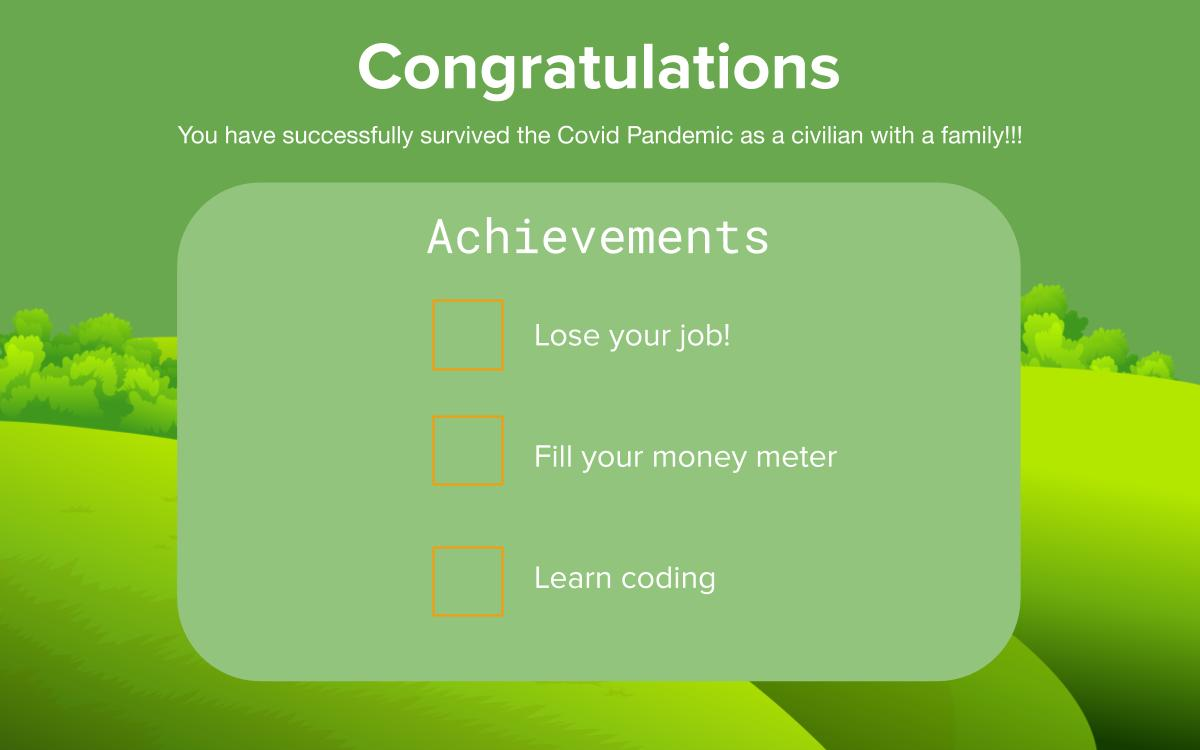
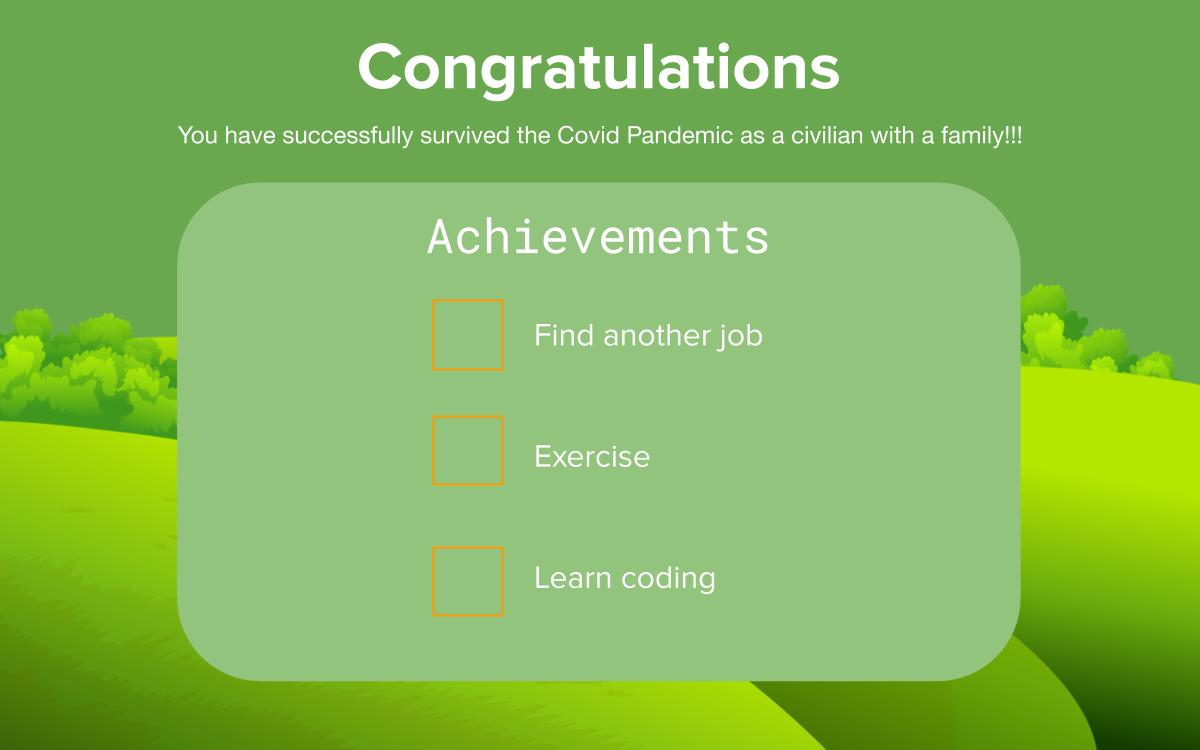
moreachstuff

Changed region(s): [[0.4625, 0.5827, 0.7092, 0.644], [0.4317, 0.4293, 0.6475, 0.46]]

diff --git a/ISP/src/isp/FamilyEvents.java b/ISP/src/isp/FamilyEvents.java
@@ -24,7 +24,7 @@ public class FamilyEvents{
         FamilySelector.add(new Event(new int [] {0,2,3}, new int [] {5,-10,-15}, new int [] {0,2,3}, new int [] {-5,-5,-10}, "Your son wants to go to the store with you","Bring him to the store","Don’t bring him to the store, I need my alone time",150, 1));
         FamilySelector.add(new Event(new int [] {0}, new int [] {-5}, new int [] {0,2}, new int [] {-5,-5}, "Your daughter wants to go hang out with friends","Don’t let her","Let her",155, 1));
         FamilySelector.add(new Event(new int [] {}, new int [] {}, new int [] {0}, new int [] {-5}, "Your children aren’t doing homework","Let them chill","Force them by taking away their video games",155, 1));
-        FamilySelector.add(new Event(new int [] {2,3}, new int [] {10,-20}, new int [] {2}, new int [] {-10}, "Gyms have closed down","Buy expensive equipment ","Continue watching Netflix",155, 1));
+        FamilySelector.add(new Event(new int [] {2,3}, new int [] {10,-20}, new int [] {2}, new int [] {-10}, "Gyms have closed down","Buy expensive equipment to exercise","Continue watching Netflix",155, 1));
         FamilySelector.add(new Event(new int [] {0,1,2,3}, new int [] {5,5,-10,-20}, new int [] {1}, new int [] {5}, "Your family feels cooped up","Go on a road trip and book a hotel","Take a walk in the park",155, 1));
         FamilySelector.add(new Event(new int [] {0,1,3}, new int [] {5,5,-5}, new int [] {0,1,3}, new int [] {5,10,-5}, "Your internet provider has been lacking recently","Upgrade your plan","Switch to Bell",155, 1));
         FamilySelector.add(new Event(new int [] {2,3}, new int [] {-10,-5}, new int [] {}, new int [] {}, "You need to buy groceries however you are out of masks","Buy groceries anyways","Just wait it out",155, 1));

diff --git a/ISP/src/isp/Family.java b/ISP/src/isp/Family.java
@@ -610,13 +610,14 @@ public class Family {
 
 //            }
             option1.setStyle(IDLE_BUTTON_STYLE);
-            if(idx == 14){
-                ISP.FAch.get(0).status = true;
-                root2.getChildren().add(ch);
-            }
+            
             if(idx == 17){
                 ISP.FAch.get(2).status = true;
                 root2.getChildren().add(ch3);
+            }
+             if(idx == 5){
+                ISP.FAch.get(1).status = true;
+                root2.getChildren().add(ch2);
             }
             
             
@@ -657,7 +658,10 @@ public class Family {
                 factors[2] = 60;
             }
             option2.setStyle(IDLE_BUTTON_STYLE);
-           
+            if(idx == 14){
+                ISP.FAch.get(0).status = true;
+                root2.getChildren().add(ch);
+            }
         });
     }
 }

diff --git a/ISP/src/isp/FamilyAchievements.java b/ISP/src/isp/FamilyAchievements.java
@@ -21,7 +21,7 @@ import javafx.stage.Stage;
 public class FamilyAchievements{
     public static void generateAchievements(){
         ISP.FAch.add(new Achievement("Find another job",false));
-        ISP.FAch.add(new Achievement("Fill your money meter",false));
+        ISP.FAch.add(new Achievement("Exercise",false));
         ISP.FAch.add(new Achievement("Learn to code",false));
     }
 }
